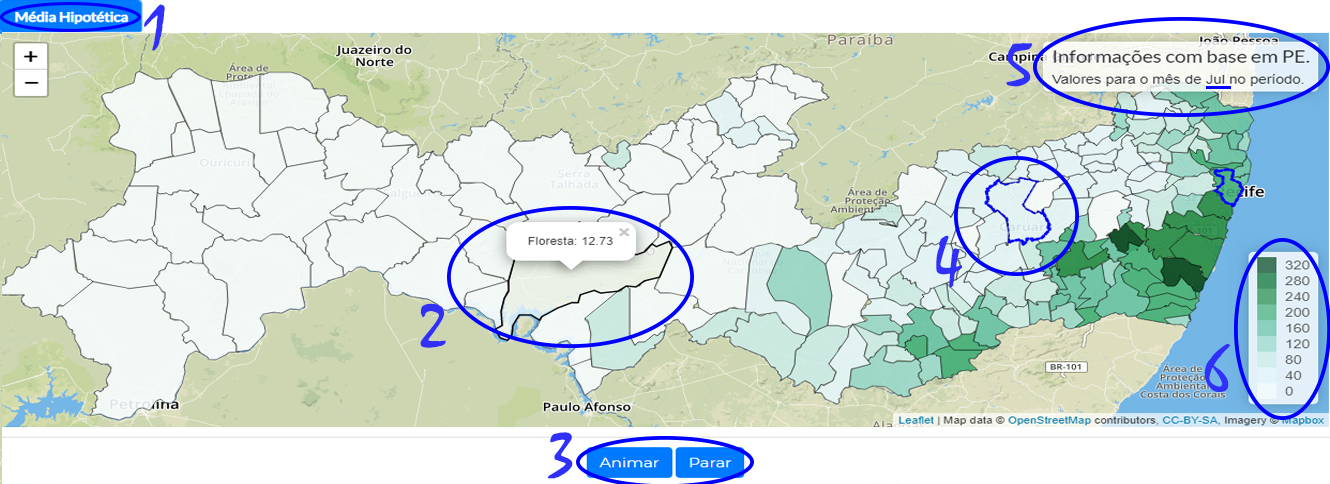
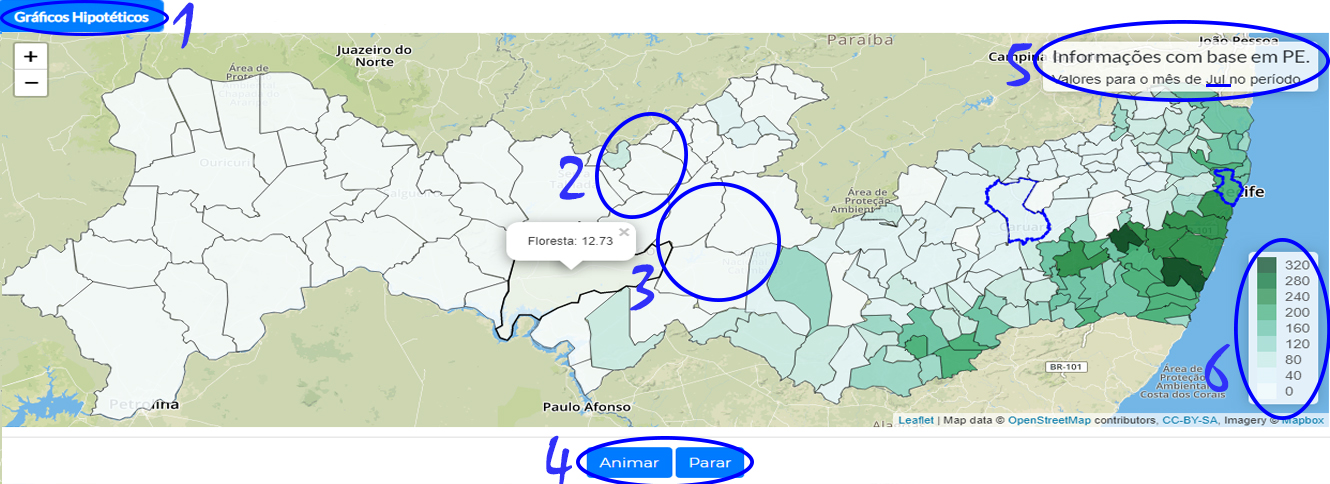
VS251020190246V5.8

diff --git a/index.html b/index.html
@@ -52,7 +52,7 @@
 				      	
 				      	<h3><b> Objetivo </b></h3>
 					      	Pedimos que participe desse estudo porque você possui o perfil adequado para contribuir com nossa pequisa.<br> 
-					      	- O objetivo desse estudo é descobrir qual a maneira mais eficaz de retratar riscos e incertezas de dados para a Geovisualização de dados para pessoas com e sem experiência em visualização (gráficos e afins para tomada de decisão) e estatística (coleta, registro e análise de dados númericos por amostras).<br>
+					      	- O objetivo desse estudo é descobrir qual a maneira mais eficaz de retratar riscos e incertezas para a visualização geográfica de dados para pessoas com e sem experiência em visualização (gráficos e afins) e estatística (coleta, registro e análise de dados númericos por amostras).<br>
 							- Os possíveis benefícios desta pesquisa são conhecer e aprender tipos de visualização de dados, técnicas estatísticas e posssíveis integrações entre ambas que possam auxiliar o processo da tomada de decisão por pessoas. <br>
 							- Mas pode ocorrer também situações nas quais você se sinta constrangido e tímido por não saber a resposta para uma pergunta ou porque você não saiba o que fazer no sistema, visto que pode se tratar de algo novo para você.<br>
 							- Sua participação é de grande valor, agradecemos pelo interesse.<br>
@@ -294,7 +294,7 @@
 													</div>
 											    </div>
 											    <div class="form-group col-md-4">
-											      	<label for="visualizacao">Você tem experiência com visualização?</label>
+											      	<label for="visualizacao">Você tem experiência com visualização? (gráficos e afins)</label>
 											      	<select id="visualizacao" class="form-control" name="visualizacao" required>
 											      		<option disabled selected value> Escolha Um </option>
 											        	<option>Não</option>
@@ -375,7 +375,7 @@
 											<li class="list-group-item d-flex justify-content-between align-items-center">
 												<div>
 													<h4>
-														O objetivo dessa técnica é exibir uma amostra extraída de resultados hipotéticos (sorteios) da distribuição de médias. Para cada cidade, é criado um mapa que se torne uma espécie de quadro em uma apresentação animada. Você terá que juntar informações de vários quadros, usando o sistema visual ou algum processo mais mecânico, como a contagem para entender os dados.A média da distribuição representada pela cidade é mapeada como uma cor para a cidade correspondente. Essa visualização usa um esquema de cores de extremidade única; quão alta ou baixa é a média de cada cidade em cada quadro.
+														O objetivo dessa técnica é exibir uma amostra extraída de resultados hipotéticos (sorteados) de uma distribuição. Para cada cidade, é criado um mapa que se torna uma espécie de quadro em uma apresentação animada que vai mudando com o passar do tempo dando a impressão de um filme. Você terá que juntar informações de vários quadros, usando o sistema visual ou algum processo mais mecânico, como a contagem para entender os dados. O valor da distribuição representada pela cidade é mapeado como uma cor para a cidade correspondente. Essa visualização usa um esquema de cores de extremidade única; quão alta ou baixa é o valor de cada cidade em cada quadro.
 													</h4>
 												</div>
 											</li>
@@ -516,7 +516,7 @@
 								  		<ul class="list-group">
 											<li class="list-group-item d-flex justify-content-between align-items-center">
 												<div>
-													<h4>O Objetivo desta visualização é permitir que você compare um determinado valor às distribuições de probabilidade acumulada (% - chances) representadas pelas cidades do mapa. Você pode arrastar uma linha horizontal que representa um valor constante;<br> a probabilidade de a distribuição ser maior que esse valor constante é mapeada como uma cor para a cidade correspondente.<br> Uma escala de cores divergente é usada para representar o espaço total de "totalmente baixo" a "totalmente alto".
+													<h4>O Objetivo desta visualização é permitir que você descubra qual a chance (%) de uma distribuição ter valores menores do que um dado valor X comparando o valor X ao conjunto de valores que compõe a distribuição de cada cidade, cada cidades possui seu próprio conjunto de valores. Você pode arrastar uma linha horizontal que representa um valor X constante a ser comparado com o conjunto de valores que cada possui;<br> a probabilidade de a distribuição da cidade ser menor que esse valor constante é representada como uma cor para a cidade correspondente.<br> Uma escala de cores divergente é usada para representar o espaço total de "totalmente baixo" a "totalmente alto".
 													</h4>
 												</div>
 											</li>
@@ -631,7 +631,7 @@
 											<li class="list-group-item d-flex justify-content-between align-items-center">
 												<div>
 													<span><i class="fa fa-caret-right" aria-hidden="true"></i></span>
-													Agora Você pode repetir o processo com outras cidades de sua escolha.
+													Mova o cursor de seleção de valor X várias vezes quanto achar necessário e tente encontrar padrões de cores e diferenças para diferentes valores de X.
 												</div>
 											</li>
 											<li class="list-group-item d-flex justify-content-between align-items-center">
@@ -657,7 +657,7 @@
 											<li class="list-group-item d-flex justify-content-between align-items-center">
 												<div>
 													<h4>
-														A visualização de Intervalo é semelhante à comparação com uma constante. Ela é usada para avaliar a probabilidade do valor de uma distribuição cair dentro de um intervalo. Você pode arrastar e dimensionar uma faixa horizontal. A probabilidade (% - chance) de a distribuição representada pela cidade estar contida na região é mapeada como uma cor para a cidade correspondente. Essa visualização usa um esquema de cores de extremidade única; se é provável que o valor esteja dentro ou fora do intervalo.
+														A visualização de Intervalo é semelhante à comparação com uma constante. Só que ao invés de compara com um valor X ela compara com um intervalo de valores de X a Y. Ela é usada para avaliar a probabilidade do valor de uma distribuição cair dentro de um intervalo. Você pode arrastar e dimensionar uma faixa horizontal. A probabilidade (% - chance) de a distribuição representada pela cidade estar contida na região é mapeada como uma cor para a cidade correspondente. Essa visualização usa um esquema de cores de extremidade única; se é provável que o valor esteja dentro ou fora do intervalo.
 													</h4>
 												</div>
 											</li>
@@ -767,13 +767,13 @@
 											<li class="list-group-item d-flex justify-content-between align-items-center">
 												<div>
 													<span><i class="fa fa-caret-right" aria-hidden="true"></i></span>
-													Qual a chance de acontecer um evento entre 50 e 150 em cada cidade?
+													Qual a chance de acontecer um evento entre 50 à 150 em cada cidade?
 												</div>
 											</li>
 											<li class="list-group-item d-flex justify-content-between align-items-center">
 												<div>
 													<span><i class="fa fa-caret-right" aria-hidden="true"></i></span>
-													Agora Você pode repetir o processo com outras cidades de sua escolha.
+													Mova o cursor de seleção de valor do intervalo de X a Y várias vezes quanto achar necessário e tente encontrar padrões de cores e diferenças para diferentes valores de X. Não esqueça de testar diferentes comprimentos de intervalos como pequeno, médio e grande.
 												</div>
 											</li>
 											<li class="list-group-item d-flex justify-content-between align-items-center">
@@ -1710,9 +1710,9 @@
 		<script type="text/javascript" src="./js/libs/bs-stepper.min.js"></script>
 		<link rel="stylesheet" type="text/css" href="./css/styles.css">
 	</body>
-
-	<script type="text/javascript" src="./js/choropleth.js"></script>
 	<script type="text/javascript" src="./js/dotmap.js"></script>
+	<script type="text/javascript" src="./js/choropleth.js"></script>
+
 	<script type="text/javascript" src="./js/media.js"></script>
 
 </html>

diff --git a/js/libs/funcoesGlobais.js b/js/libs/funcoesGlobais.js
@@ -678,65 +678,114 @@ function geraperguntas(perguntas,index,vis){
   label.setAttribute('for',"pergunta1");
   label.setAttribute('id',"pergunta1");
   label.innerText= pergunta[0];//"Pergunta 1 ?";
+  if (pergunta[1]=='001'||pergunta[1]=='003'||pergunta[1]=='004') {
+      var div1 = document.createElement("div");
+      div1.setAttribute('class','col-sm-3 col-md-3 col-lg-3 col-xl-3');
 
-  for (var i = 2; i < pergunta.length-2; i++) {
-    var div1 = document.createElement("div");
-    div1.setAttribute('class',"custom-control custom-radio custom-control-inline ");
-    var input1= document.createElement("input");
-    input1.setAttribute('type','hidden');
-    input1.setAttribute('id','CLC'+pergunta[1]+vis);
-    input1.setAttribute('name','CLC'+pergunta[1]+vis);
-    input1.setAttribute('value','');
+      var input1= document.createElement("input");
+      input1.setAttribute('type','hidden');
+      input1.setAttribute('id','CLC'+pergunta[1]+vis);
+      input1.setAttribute('name','CLC'+pergunta[1]+vis);
+      input1.setAttribute('value','');
 
-    var input2= document.createElement("input");
-    input2.setAttribute('type','hidden');
-    input2.setAttribute('id','TMP'+pergunta[1]+vis);
-    input2.setAttribute('name','TMP'+pergunta[1]+vis);
-    input2.setAttribute('value','');
+      var input2= document.createElement("input");
+      input2.setAttribute('type','hidden');
+      input2.setAttribute('id','TMP'+pergunta[1]+vis);
+      input2.setAttribute('name','TMP'+pergunta[1]+vis);
+      input2.setAttribute('value','');
 
-    var label2 = document.createElement("label");
-    label2.setAttribute('for','CNFC'+pergunta[1]+vis);
-    label2.setAttribute('style',"font-weight:bold;");
-    label2.innerText='De 1 a 5 sendo 1 pouco confiante e 5 muito confiante, quão confiante você está da sua resposta?';
+      var label2 = document.createElement("label");
+      label2.setAttribute('for','CNFC'+pergunta[1]+vis);
+      label2.setAttribute('style',"font-weight:bold;");
+      label2.innerText='De 1 a 5 sendo 1 pouco confiante e 5 muito confiante, quão confiante você está da sua resposta?';
 
-    var input3= document.createElement("input");
-    input3.setAttribute('type','text');
-    input3.setAttribute('class','ioRangerSlider');
-    input3.setAttribute('id','CNFC'+pergunta[1]+vis);
-    input3.setAttribute('name','CNFC'+pergunta[1]+vis);
-    input3.setAttribute('value','');
-    input3.required=true;
+      var input3= document.createElement("input");
+      input3.setAttribute('type','text');
+      input3.setAttribute('class','ioRangerSlider');
+      input3.setAttribute('id','CNFC'+pergunta[1]+vis);
+      input3.setAttribute('name','CNFC'+pergunta[1]+vis);
+      input3.setAttribute('value','');
+      input3.required=true;
 
-    var radio1 = document.createElement("input"); //input element, text
-    if(i==2){
-      radio1.required = true;
-    }
-    radio1.setAttribute('type',"radio");
-    radio1.setAttribute('class',"custom-control-input form-check-input form-control");
-    radio1.setAttribute('name',"pergunta"+pergunta[1]+vis);
-    radio1.setAttribute('id',""+pergunta[1]+pergunta[i]+vis);
-    radio1.setAttribute('value',pergunta[i]);
-    var label1 = document.createElement("label");
-    label1.setAttribute('class',"custom-control-label form-check-label");
-    label1.setAttribute('for',""+pergunta[1]+pergunta[i]+vis);
-    label1.setAttribute('style',"font-weight:bold;");
-    label1.innerText=pergunta[i];
-
-    div1.appendChild(radio1);
-    div1.appendChild(label1);
-    if(i==pergunta.length-2){
-      var input4= document.createElement("div");
-      var input7= document.createElement("br");
-      var input6= document.createElement("p");
-      input4.setAttribute('class','invalid-feedback');
-      input6.innerText='Você precisa escolher um.';
-      input4.appendChild(input7);
-      input4.appendChild(input6);
+      var input8= document.createElement("input");
+      input8.setAttribute('type','text');
+      input8.setAttribute('id',""+pergunta[1]+pergunta[i]+vis);
+      input8.setAttribute('name',"pergunta"+pergunta[1]+vis);
+      input8.setAttribute('class','form-control');
+      input8.setAttribute('value','');
+      input8.required=true;
+        var input4= document.createElement("div");
+        var input7= document.createElement("br");
+        var input6= document.createElement("p");
+        input4.setAttribute('class','invalid-feedback');
+        input6.innerText='Informe um valor.';
+        input4.appendChild(input7);
+        input4.appendChild(input6);
+      div1.appendChild(input8);
       div1.appendChild(input4);
+      d2.appendChild(label);
+      d1.appendChild(div1);
+      d2.appendChild(d1);
+  }else{
+    for (var i = 2; i < pergunta.length-2; i++) {
+      var div1 = document.createElement("div");
+      div1.setAttribute('class',"custom-control custom-radio custom-control-inline ");
+      var input1= document.createElement("input");
+      input1.setAttribute('type','hidden');
+      input1.setAttribute('id','CLC'+pergunta[1]+vis);
+      input1.setAttribute('name','CLC'+pergunta[1]+vis);
+      input1.setAttribute('value','');
+
+      var input2= document.createElement("input");
+      input2.setAttribute('type','hidden');
+      input2.setAttribute('id','TMP'+pergunta[1]+vis);
+      input2.setAttribute('name','TMP'+pergunta[1]+vis);
+      input2.setAttribute('value','');
+
+      var label2 = document.createElement("label");
+      label2.setAttribute('for','CNFC'+pergunta[1]+vis);
+      label2.setAttribute('style',"font-weight:bold;");
+      label2.innerText='De 1 a 5 sendo 1 pouco confiante e 5 muito confiante, quão confiante você está da sua resposta?';
+
+      var input3= document.createElement("input");
+      input3.setAttribute('type','text');
+      input3.setAttribute('class','ioRangerSlider');
+      input3.setAttribute('id','CNFC'+pergunta[1]+vis);
+      input3.setAttribute('name','CNFC'+pergunta[1]+vis);
+      input3.setAttribute('value','');
+      input3.required=true;
+
+      var radio1 = document.createElement("input"); //input element, text
+      if(i==2){
+        radio1.required = true;
+      }
+      radio1.setAttribute('type',"radio");
+      radio1.setAttribute('class',"custom-control-input form-check-input form-control");
+      radio1.setAttribute('name',"pergunta"+pergunta[1]+vis);
+      radio1.setAttribute('id',""+pergunta[1]+pergunta[i]+vis);
+      radio1.setAttribute('value',pergunta[i]);
+      var label1 = document.createElement("label");
+      label1.setAttribute('class',"custom-control-label form-check-label");
+      label1.setAttribute('for',""+pergunta[1]+pergunta[i]+vis);
+      label1.setAttribute('style',"font-weight:bold;");
+      label1.innerText=pergunta[i];
+
+      div1.appendChild(radio1);
+      div1.appendChild(label1);
+      if(i==pergunta.length-2){
+        var input4= document.createElement("div");
+        var input7= document.createElement("br");
+        var input6= document.createElement("p");
+        input4.setAttribute('class','invalid-feedback');
+        input6.innerText='Você precisa escolher um.';
+        input4.appendChild(input7);
+        input4.appendChild(input6);
+        div1.appendChild(input4);
+      }
+      d2.appendChild(label);
+      d1.appendChild(div1);
+      d2.appendChild(d1);
     }
-    d2.appendChild(label);
-    d1.appendChild(div1);
-    d2.appendChild(d1);
   }
   d2.appendChild(label2);
   d2.appendChild(input3);
@@ -747,7 +796,6 @@ function geraperguntas(perguntas,index,vis){
   d2.appendChild(input1);
   d2.appendChild(input2);
   return d2;
-
 }
 // QUANDO O RECPATHCA É COMPLETADO SUBMETE OS FORMS.
 function recaptcha_callback(){

diff --git a/js/perguntas.js b/js/perguntas.js
@@ -1,8 +1,8 @@
 var perguntasT1=[];
-perguntasT1.push(['De 1 a 5, qual a chance de chover em Recife abaixo de 100mm?','001','1','2','3','4','5','Recife','']);
+perguntasT1.push(['De 0 a 100% qual a chance de chover em Recife abaixo de 100mm?','001','1','2','3','4','5','Recife','']);
 perguntasT1.push(['Em qual das duas cidades é mais provável de chover menos que 100mm?','002','Araripina','Vitória de Santo Antão','','']);
-perguntasT1.push(['De 1 a 5, qual a chance de chover em Maraial entre 30 e 150mm?','003','1','2','3','4','5','Maraial','']);
-perguntasT1.push(['De 0 a160, qual valor você estimaria para a média de chuvas em Amaraji?','004','0','20','40','60','80','100','120','140','160','Amaraji','']);
+perguntasT1.push(['De 0 a 100%, qual a chance de chover em Maraial entre 30 e 150mm?','003','1','2','3','4','5','Maraial','']);
+perguntasT1.push(['De 0 a 160, qual valor você estimaria para a média de chuvas em Amaraji?','004','0','20','40','60','80','100','120','140','160','Amaraji','']);
 perguntasT1.push(['Quem tem mais chances de chover abaixo de 100mm?','005','Recife','Paulista e Ipojuca','Paulista','Ipojuca']);
 perguntasT1.push(['Você consegue identificar alguma área cujo valor é muito diferente dos vizinhos?','006','Sim','Não','','']);
 
@@ -12,9 +12,9 @@ perguntasT1.push(['Quem tem mais chances de chover menos 60mm?','009','Escada','
 perguntasT1.push(['Quem tem mais chances de chover menos 70mm?','010','Amaraji','Limoeiro','Moreno']);*/
 
 var perguntasT2=[];
-perguntasT2.push(['De 1 a 5, qual a chance de chover em Recife abaixo de 100mm?','001','1','2','3','4','5','Recife','']);
+perguntasT2.push(['De 0 a 100%, qual a chance de chover em Recife abaixo de 100mm?','001','1','2','3','4','5','Recife','']);
 perguntasT2.push(['Em qual das duas cidades é mais provável de chover menos que 100mm?','002','Araripina','Vitória de Santo Antão','','']);
-perguntasT2.push(['De 1 a 5, qual a chance de chover em Maraial entre 30 e 150mm?','003','1','2','3','4','5','Maraial','']);
+perguntasT2.push(['De 0 a 100%, qual a chance de chover em Maraial entre 30 e 150mm?','003','1','2','3','4','5','Maraial','']);
 perguntasT2.push(['De 0 a 160, qual valor você estimaria para a média de chuvas em Amaraji?','004','0','20','40','60','80','100','120','140','160','Amaraji','']);
 perguntasT2.push(['Quem tem mais chances de chover abaixo de 100mm?','005','Recife','Paulista e Ipojuca','Paulista','Ipojuca']);
 perguntasT2.push(['Você consegue identificar alguma área cujo valor é muito diferente dos vizinhos?','006','Sim','Não','','']);
@@ -25,9 +25,9 @@ perguntasT2.push(['Quem tem mais chances de chover menos 60mm?','009','Escada','
 perguntasT2.push(['Quem tem mais chances de chover menos 70mm?','010','Amaraji','Limoeiro','Moreno']);*/
 
 var perguntasT3=[];
-perguntasT3.push(['De 1 a 5, qual a chance de chover em Recife abaixo de 100mm?','001','1','2','3','4','5','Recife','']);
+perguntasT3.push(['De 0 a 100%, qual a chance de chover em Recife abaixo de 100mm?','001','1','2','3','4','5','Recife','']);
 perguntasT3.push(['Em qual das duas cidades é mais provável de chover menos que 100mm?','002','Araripina','Vitória de Santo Antão','','']);
-perguntasT3.push(['De 1 a 5, qual a chance de chover em Maraial entre 30 e 150mm?','003','1','2','3','4','5','Maraial','']);
+perguntasT3.push(['De 0 a 100%, qual a chance de chover em Maraial entre 30 e 150mm?','003','1','2','3','4','5','Maraial','']);
 perguntasT3.push(['De 0 a 160, qual valor você estimaria para a média de chuvas em Amaraji?','004','0','20','40','60','80','100','120','140','160','Amaraji','']);
 perguntasT3.push(['Quem tem mais chances de chover abaixo de 100mm?','005','Recife','Paulista e Ipojuca','Paulista','Ipojuca']);
 perguntasT3.push(['Você consegue identificar alguma área cujo valor é muito diferente dos vizinhos?','006','Sim','Não','','']);
@@ -38,9 +38,9 @@ perguntasT3.push(['Quem tem mais chances de chover menos 60mm?','009','Escada','
 perguntasT3.push(['Quem tem mais chances de chover menos 70mm?','010','Amaraji','Limoeiro','Moreno']);*/
 
 var perguntasT4=[];
-perguntasT4.push(['De 1 a 5, qual a chance de chover em Recife abaixo de 100mm?','001','1','2','3','4','5','Recife','']);
+perguntasT4.push(['De 0 a 100%, qual a chance de chover em Recife abaixo de 100mm?','001','1','2','3','4','5','Recife','']);
 perguntasT4.push(['Em qual das duas cidades é mais provável de chover menos que 100mm?','002','Araripina','Vitória de Santo Antão','','']);
-perguntasT4.push(['De 1 a 5, qual a chance de chover em Maraial entre 30 e 150mm?','003','1','2','3','4','5','Maraial','']);
+perguntasT4.push(['De 0 a 100%, qual a chance de chover em Maraial entre 30 e 150mm?','003','1','2','3','4','5','Maraial','']);
 perguntasT4.push(['De 0 a 160, qual valor você estimaria para a média de chuvas em Amaraji?','004','0','20','40','60','80','100','120','140','160','Amaraji','']);
 perguntasT4.push(['Quem tem mais chances de chover abaixo de 100mm?','005','Recife','Paulista e Ipojuca','Paulista','Ipojuca']);
 perguntasT4.push(['Você consegue identificar alguma área cujo valor é muito diferente dos vizinhos?','006','Sim','Não','','']);

diff --git a/js/libs/buttons.js b/js/libs/buttons.js
@@ -335,7 +335,9 @@ $(document).ready(function () {
 	$(".btn-next-form").click(function() {
 		if($(this).hasClass('tutorial')==false){
 			var ent= $(this).parent().find('.form-group > div > div> div >input')[0].name;
-			if($('input[name='+ent+']:checked').val()==undefined){
+			if($('input[name='+ent+']:checked').val()==undefined && $('input[name='+ent+']').hasClass('custom-control-input')==true){
+				$(this).parent().parent()[0].classList.add('was-validated');
+			}else if($('input[name='+ent+']').val()==""&& $('input[name='+ent+']').hasClass('custom-control-input')==false){
 				$(this).parent().parent()[0].classList.add('was-validated');
 			}else{
 			   	var formName=$(this).parent().parent()[0].id;
@@ -488,6 +490,7 @@ $(document).ready(function () {
 	});
 	// SUBMETE OS FORMS PARA O GOOGLE SCRIPT WEB SERVICE PARA A API GRAVAR OS DADOS NO GOOGLE SHEETS.
     $('#Form,#2Form,#3Form,#4Form,#5Form').submit(function(){
+    	console.log($(this).serialize());
 	    $.ajax({
 		    url: $(this).attr('action'),
 		    type: 'POST',

diff --git a/js/media.js b/js/media.js
@@ -1,7 +1,7 @@
 var mapMedia = L.map('vis4').setView([-8.305448,-37.822426], 8);
 var mapVis04 = L.map('vis04').setView([-8.305448,-37.822426], 8);
 var legendMedia = L.control({position: 'bottomright'});
-var grades=[0,40,80,120,160,200,240,280,320];
+var grades=[0,20,40,60,80,100,120,140,160];
 var LayerMedia,GeoLayer2,GeoLayer3;
 mapMedia.doubleClickZoom.disable();
 mapVis04.doubleClickZoom.disable();
